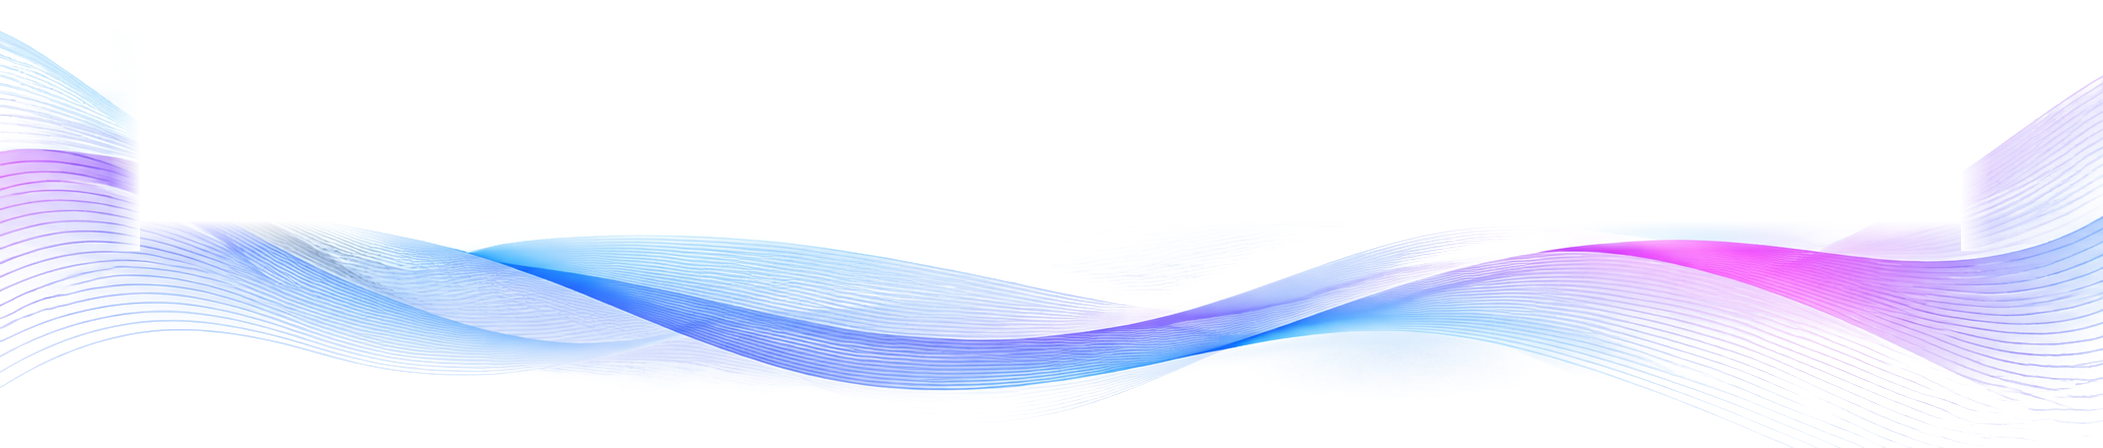
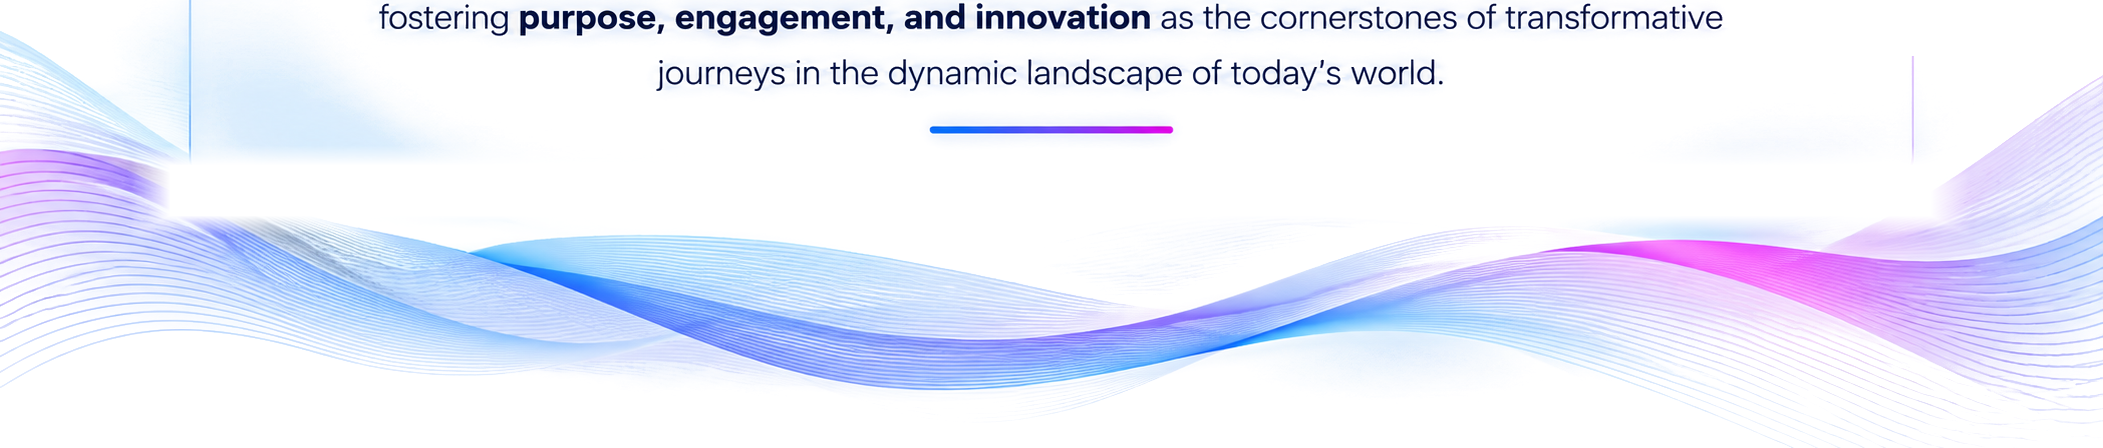
Remove quote artwork mask seams

diff --git a/app/globals.css b/app/globals.css
@@ -342,7 +342,7 @@
 /* Pillar summary reconstructed to the supplied 2103 x 748 reference. */
 .quote-section{position:relative;isolation:isolate;width:100vw;max-width:none;height:748px;min-height:748px;margin:0;padding:0;overflow:hidden;text-align:center;background:radial-gradient(circle at 50% 34%,#fff 0,#f9fcff 48%,#edf6ff 100%)}
 .quote-section::after{content:"";position:absolute;z-index:0;left:0;bottom:0;width:100%;height:448px;background:url('/art/home-quote-wave.png') center bottom/100% 448px no-repeat;pointer-events:none}
-.quote-section p{position:absolute;z-index:2;left:8.75%;top:152px;width:79.94%;height:329px;margin:0;padding:76px 58px 72px;border:2px solid transparent;border-radius:38px;background:linear-gradient(rgba(251,253,255,.97),rgba(251,253,255,.97)) padding-box,linear-gradient(90deg,#79baff,#b5a5ff 53%,#ef75e8) border-box;font-size:31px;line-height:1.72;font-weight:400;letter-spacing:-.012em;color:#071b4c}
+.quote-section p{position:absolute;z-index:2;left:8.75%;top:152px;width:79.94%;height:329px;margin:0;padding:76px 58px 72px;border:2px solid transparent;border-radius:38px;background:linear-gradient(#fbfdff,#fbfdff) padding-box,linear-gradient(90deg,#79baff,#b5a5ff 53%,#ef75e8) border-box;font-size:31px;line-height:1.72;font-weight:400;letter-spacing:-.012em;color:#071b4c}
 .quote-section p::before,.quote-section p::after{content:"";position:absolute;width:160px;height:128px;background-image:radial-gradient(circle,#8bc4ff 2px,transparent 2.4px);background-size:29px 29px;opacity:.72;pointer-events:none}
 .quote-section p::before{left:-169px;top:-88px}
 .quote-section p::after{right:-190px;top:66px}
